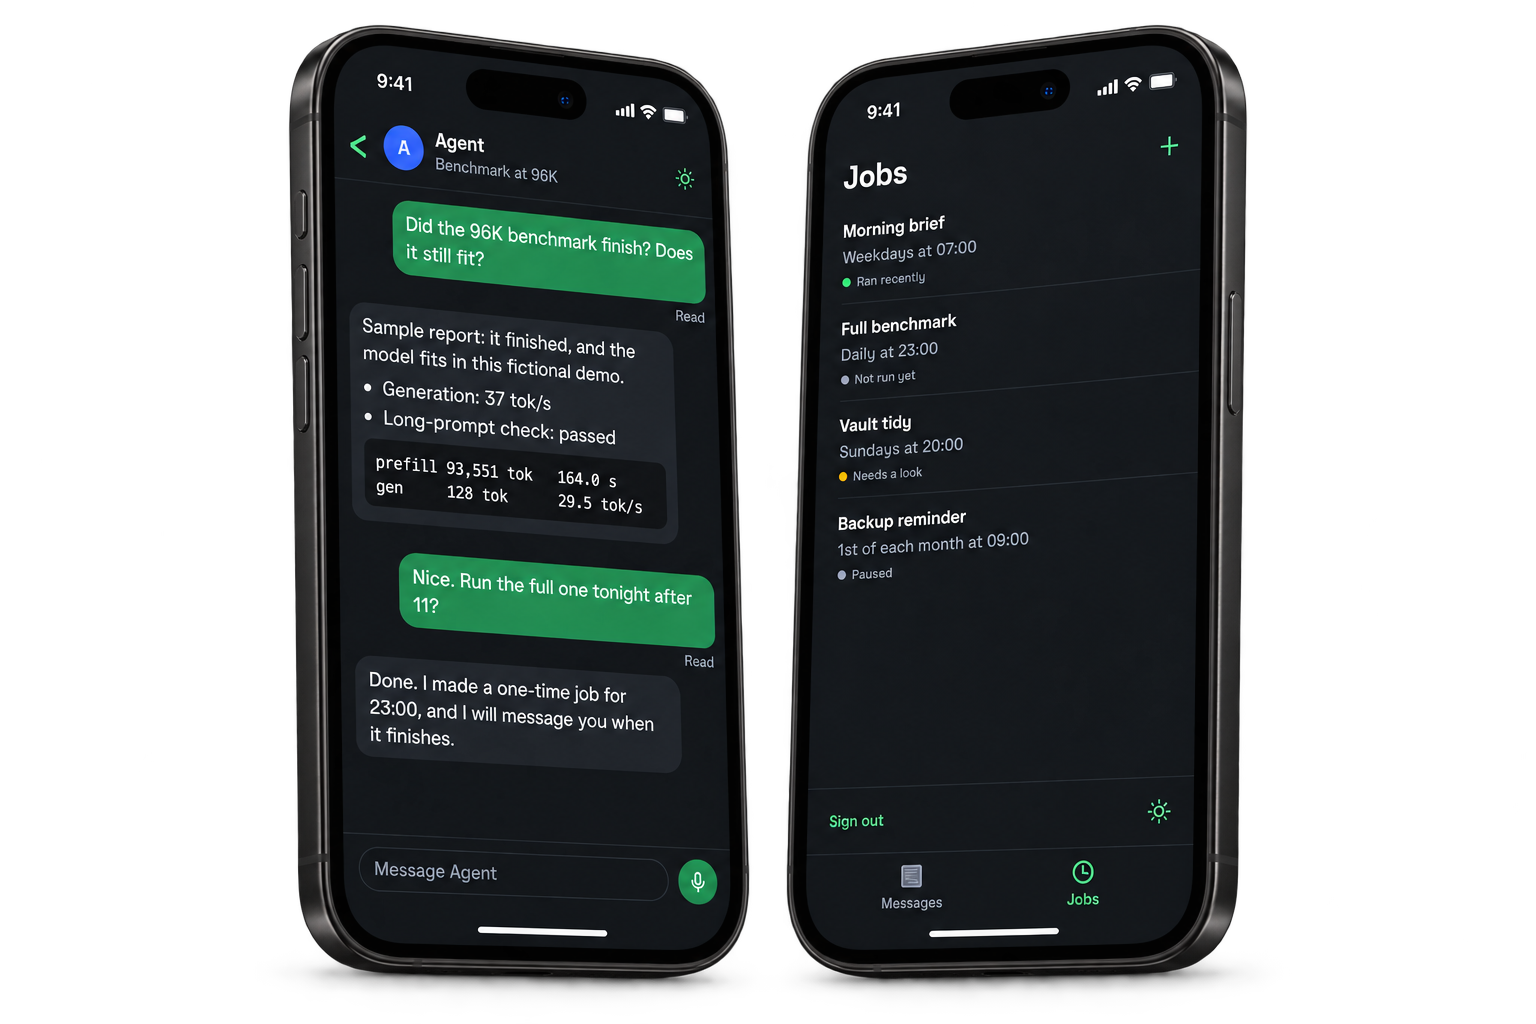
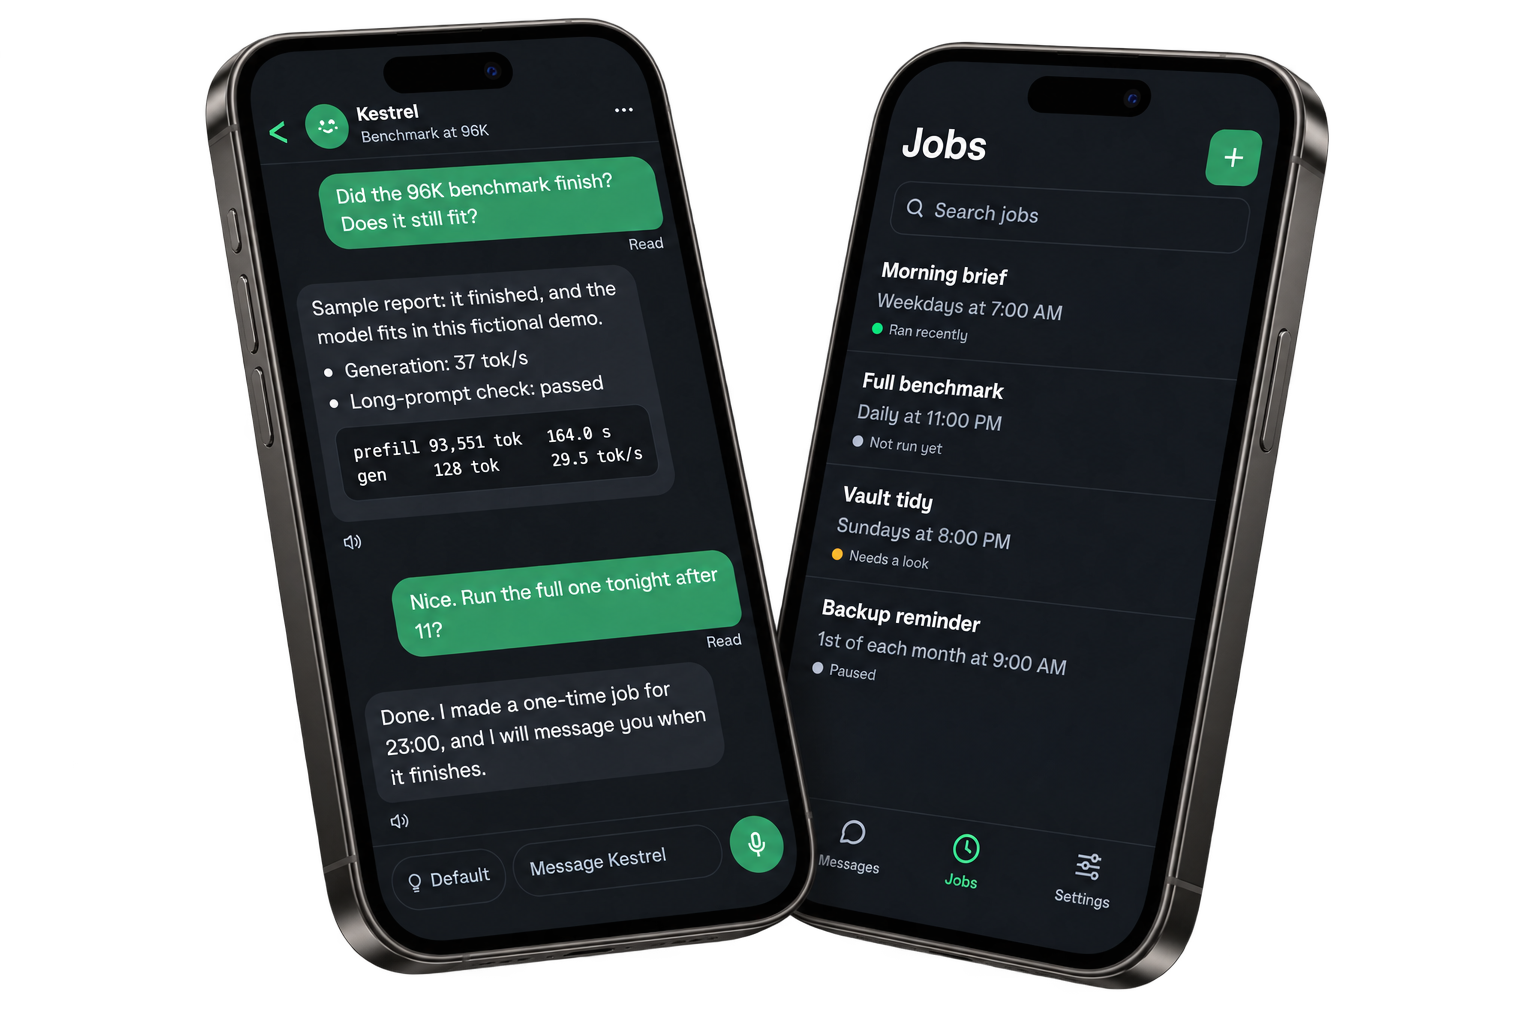
Refresh README mockup with the current Roost UI (#56)
## Summary

The README mockup showed an older interface. Replace it with angled
phones based on fresh captures of the current demo: the conversation
avatar/menu and thinking/voice composer, plus Jobs search and the
three-tab navigation.

```text
current demo Messages + Jobs → refreshed phone illustration → README hero
```

Update its provenance, license notice and SHA-256 pin; retain the old
hash for history scanning. The application itself is unchanged.

## Evidence

- **Before:** the artwork omitted current controls and showed the old
navigation.
**After:** visually compared the replacement against fresh 390 × 844
Chrome captures using synthetic demo data.
- `make check`: 139 Python tests, 91 frontend tests and
public-content/history/link checks passed, with zero publication
findings.
- README light/dark desktop and 390px previews load the image without
page overflow. Image has transparency and no embedded metadata.
- The artwork remains an AI-generated illustration, not a pixel-exact
screenshot or physical-device validation. Sample benchmark figures are
fictional.

## Merge Danger

**Door:** two-way

**Blast Radius:** documentation

- [x] `make check` passed.
- [x] Application code unchanged; existing demo smoke check also passed.
- [x] No private content or real credentials.
- [x] Replacement binary reviewed, licensed and SHA-256 pinned.

Changed region(s): [[0.125, 0.0, 0.875, 0.9688], [0.625, 0.8125, 0.6562, 0.8438]]

diff --git a/scripts/check_public_content.py b/scripts/check_public_content.py
@@ -72,7 +72,7 @@ REVIEWED_ASSETS = {
[5 lines of base64/hex data omitted]
 }
 
 
@@ -92,6 +92,7 @@ REVIEWED_HISTORY = {
 # Previously published assets remain reviewed for history scans only. Current files must match
 # their current pin; a retired asset is not approved for reintroduction into the working tree.
 REVIEWED_ASSET_HISTORY = {
[3 lines of base64/hex data omitted]
 }

diff --git a/assets/README.md b/assets/README.md
@@ -1,9 +1,9 @@
 # README hero
 
-`roost-readme-hero.png` is a 1536 × 1024 RGBA PNG with a transparent background, generated on 2026-10-22 using OpenAI's built-in image generation tool. It combines the repository's existing `roost-iphone-chat-dark.png` and `roost-iphone-dark.png` as visual references into a two-phone composition of Messages and Jobs. The reference assets' notice is [preview-mockups-MIT.txt](../LICENSES/preview-mockups-MIT.txt); the new image's notice is [readme-hero-MIT.txt](../LICENSES/readme-hero-MIT.txt).
+`roost-readme-hero.png` is a 1536 × 1024 RGBA PNG with a transparent background, refreshed on 2026-10-22 using OpenAI's built-in image generation tool. Its references are fresh Chrome captures of the current Messages and Jobs screens at revision `42939c6`, using the repository's disposable demo at a 390 × 844 phone viewport. The image's notice is [readme-hero-MIT.txt](../LICENSES/readme-hero-MIT.txt).
 
-The devices and screens are AI-generated illustrations based on the existing demo mockups, not exact screenshots of the current interface or evidence of physical-device testing. The benchmark figures and conversation are fictional sample content, not measured performance claims.
+The devices and screens are AI-generated illustrations based on the captured interface, not pixel-exact screenshots or evidence of physical-device testing. The benchmark figures and conversation are fictional demo content, not measured performance claims.
 
-Generation direction: preserve the reference app design and sample content; show two complete black phones side by side with subtle inward perspective, dark charcoal screens and forest-green accents; use a transparent background and restrained studio lighting; add no headline, badge, watermark, props, or new features.
+Generation direction: preserve the current avatar, conversation menu, thinking/voice composer, Jobs search and three-tab Messages/Jobs/Settings navigation. Show two complete black phones with inward angles, dark charcoal screens and green accents; use a transparent background and restrained studio lighting; add no headline, badge, watermark, props, or new features.
 
 The image was visually reviewed for content and readable sample text. It contains no embedded text metadata. Its SHA-256 is pinned in `REVIEWED_ASSETS` in `scripts/check_public_content.py`. Replacements must be reviewed and repinned before publishing.

diff --git a/README.md b/README.md
@@ -18,7 +18,7 @@
 </p>
 
 <p align="center">
-  <a href="assets/roost-readme-hero.png"><img src="assets/roost-readme-hero.png" alt="Illustration of Roost's Messages and Jobs screens in two dark phone mockups" width="760"></a>
+  <a href="assets/roost-readme-hero.png"><img src="assets/roost-readme-hero.png" alt="Illustration of the current Roost Messages and Jobs screens in two angled phone mockups" width="760"></a>
 </p>
 
 Roost is a simple, private app for [Hermes Agent](https://github.com/NousResearch/hermes-agent) built around the features that matter: conversations, scheduled work, and approvals. The interface stays out of your way, with fewer buttons and toggles competing for your attention. Open it on your phone or desktop and get straight to the agent you already run.
